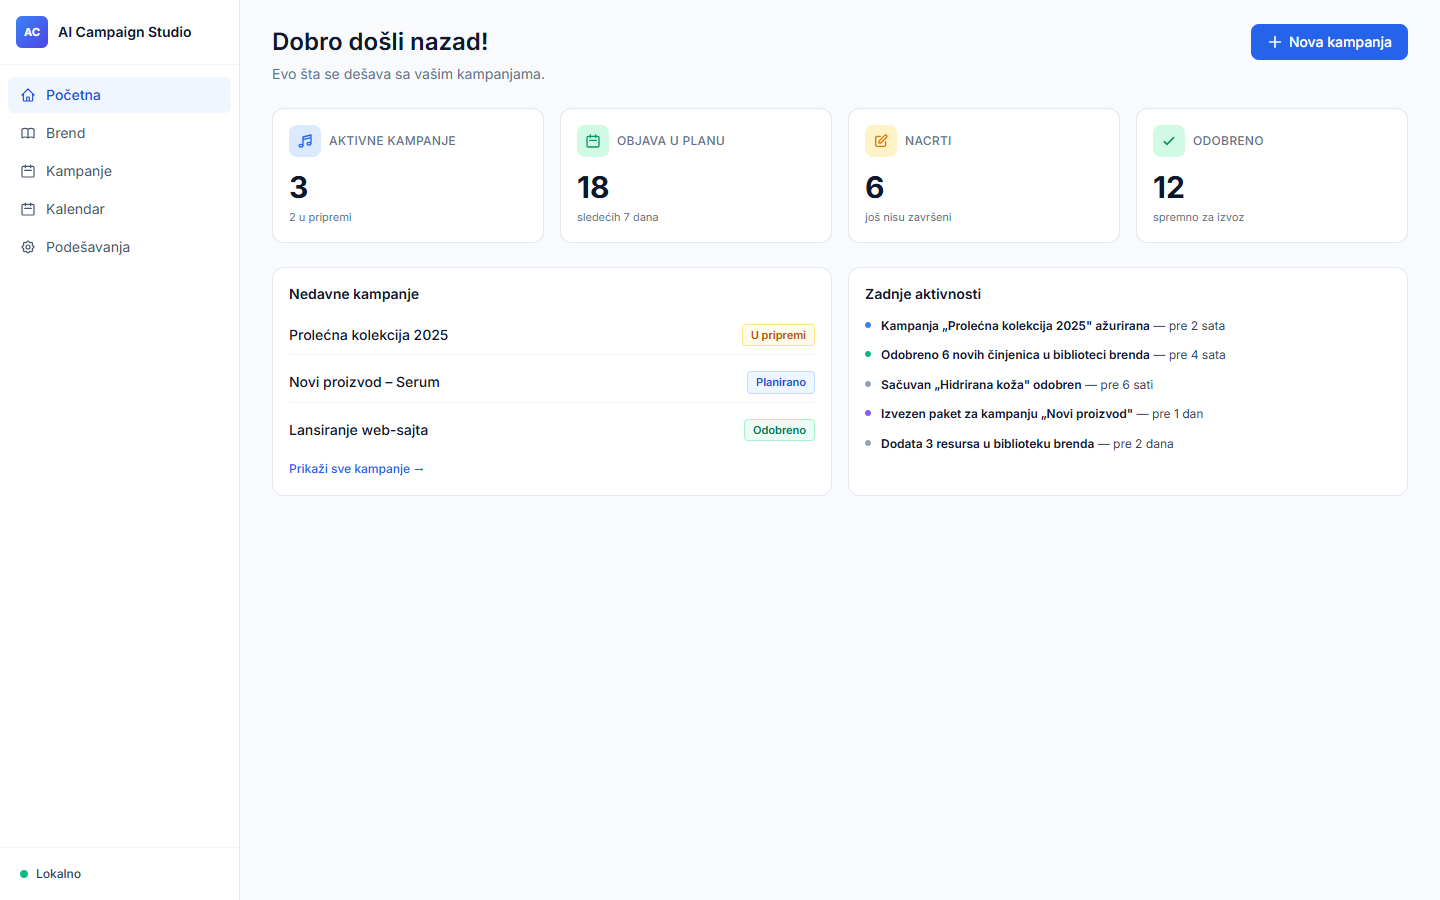
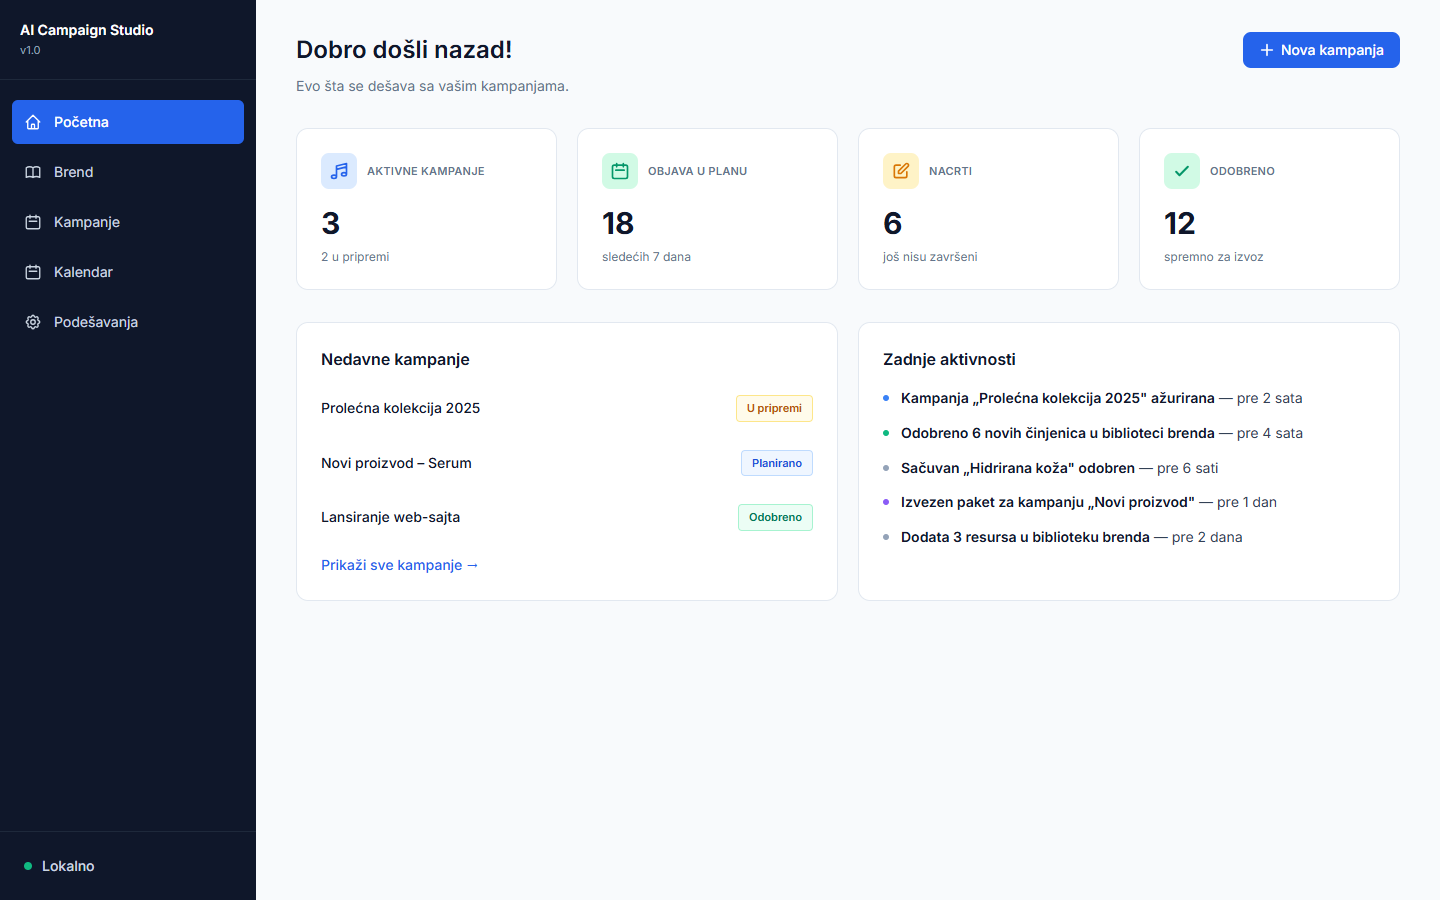
v3 Početna: tamni sidebar + veći razmaci + bolje raspoređen sadržaj
Per Human Owner feedback:
  - 'sidebar je u mockupu TAMNA pozadina i veći razmak između
    naziva panela'
  - 'sadržaj zbijen prema gornjem djelu prozora, treba mnogo
    čitkije'

Changes:
  - Sidebar background: white (slate-50) -> dark (slate-900)
  - Sidebar text: dark -> white/slate-300
  - Nav item spacing: py-2 -> py-3 (larger gap between items)
  - Active state: blue-50 bg + blue-700 text -> blue-600 bg + white
    (more contrast, easier to read)
  - Main padding: px-8 py-6 -> px-10 py-8
  - KPI cards: p-4 -> p-6
  - Section gaps: mb-6 -> mb-8
  - Nedavne/Zadnje aktivnosti: space-y-2.5 -> space-y-3
  - Icon size: 16x16 -> 18x18 (slightly larger for readability)
  - Bottom 'Lokalno' badge: py-1.5 -> py-2 (not cramped)

Result: dashboard is now visually balanced and matches the mockup's
dark sidebar + airy content layout.

diff --git a/mockup_proposal_v3/pocetna/index.html b/mockup_proposal_v3/pocetna/index.html
@@ -13,56 +13,52 @@
   </head>
   <body class="bg-slate-50 text-slate-900 min-h-screen flex flex-col">
     <div class="flex flex-1 min-h-0">
-      <!-- ===== SIDEBAR ===== -->
-      <aside class="w-60 bg-white border-r border-slate-200 flex flex-col flex-shrink-0">
+      <!-- ===== SIDEBAR (tamna, veći razmaci) ===== -->
+      <aside class="w-64 bg-slate-900 flex flex-col flex-shrink-0">
         <!-- Brand card -->
-        <div class="px-4 py-4 border-b border-slate-100">
-          <div class="flex items-center gap-2.5">
-            <div class="w-8 h-8 rounded-md bg-gradient-to-br from-blue-500 to-indigo-600 flex items-center justify-center text-white text-[11px] font-bold">AC</div>
-            <div class="min-w-0">
-              <div class="text-sm font-semibold text-slate-900 truncate">AI Campaign Studio</div>
-            </div>
-          </div>
+        <div class="px-5 py-5 border-b border-slate-800">
+          <div class="text-sm font-semibold text-white">AI Campaign Studio</div>
+          <div class="text-[11px] text-slate-400 mt-0.5">v1.0</div>
         </div>
 
-        <!-- Navigation -->
-        <nav class="px-2 py-3 space-y-0.5 flex-1">
-          <a class="flex items-center gap-2.5 px-3 py-2 text-sm font-medium text-blue-700 bg-blue-50 rounded-md">
-            <svg class="w-4 h-4" fill="none" viewBox="0 0 24 24" stroke="currentColor" stroke-width="1.8"><path stroke-linecap="round" stroke-linejoin="round" d="M3 12l2-2m0 0l7-7 7 7M5 10v10a1 1 0 001 1h3m10-11l2 2m-2-2v10a1 1 0 01-1 1h-3m-6 0a1 1 0 001-1v-4a1 1 0 011-1h2a1 1 0 011 1v4a1 1 0 001 1m-6 0h6"/></svg>
+        <!-- Navigation: space-y-1.5, py-3, larger spacing between items -->
+        <nav class="px-3 py-5 space-y-1.5 flex-1">
+          <a class="flex items-center gap-3 px-3 py-3 text-sm font-medium text-white bg-blue-600 rounded-md">
+            <svg class="w-[18px] h-[18px]" fill="none" viewBox="0 0 24 24" stroke="currentColor" stroke-width="1.8"><path stroke-linecap="round" stroke-linejoin="round" d="M3 12l2-2m0 0l7-7 7 7M5 10v10a1 1 0 001 1h3m10-11l2 2m-2-2v10a1 1 0 01-1 1h-3m-6 0a1 1 0 001-1v-4a1 1 0 011-1h2a1 1 0 011 1v4a1 1 0 001 1m-6 0h6"/></svg>
             <span>Početna</span>
           </a>
-          <a class="flex items-center gap-2.5 px-3 py-2 text-sm text-slate-600 hover:bg-slate-50 rounded-md">
-            <svg class="w-4 h-4" fill="none" viewBox="0 0 24 24" stroke="currentColor" stroke-width="1.8"><path stroke-linecap="round" stroke-linejoin="round" d="M12 6.253v13m0-13C10.832 5.477 9.246 5 7.5 5S4.168 5.477 3 6.253v13C4.168 18.477 5.754 18 7.5 18s3.332.477 4.5 1.253m0-13C13.168 5.477 14.754 5 16.5 5c1.747 0 3.332.477 4.5 1.253v13C19.832 18.477 18.247 18 16.5 18c-1.746 0-3.332.477-4.5 1.253"/></svg>
+          <a class="flex items-center gap-3 px-3 py-3 text-sm text-slate-300 hover:bg-slate-800 hover:text-white rounded-md">
+            <svg class="w-[18px] h-[18px]" fill="none" viewBox="0 0 24 24" stroke="currentColor" stroke-width="1.8"><path stroke-linecap="round" stroke-linejoin="round" d="M12 6.253v13m0-13C10.832 5.477 9.246 5 7.5 5S4.168 5.477 3 6.253v13C4.168 18.477 5.754 18 7.5 18s3.332.477 4.5 1.253m0-13C13.168 5.477 14.754 5 16.5 5c1.747 0 3.332.477 4.5 1.253v13C19.832 18.477 18.247 18 16.5 18c-1.746 0-3.332.477-4.5 1.253"/></svg>
             <span>Brend</span>
           </a>
-          <a class="flex items-center gap-2.5 px-3 py-2 text-sm text-slate-600 hover:bg-slate-50 rounded-md">
-            <svg class="w-4 h-4" fill="none" viewBox="0 0 24 24" stroke="currentColor" stroke-width="1.8"><path stroke-linecap="round" stroke-linejoin="round" d="M8 7V3m8 4V3m-9 8h10M5 21h14a2 2 0 002-2V7a2 2 0 00-2-2H5a2 2 0 00-2 2v12a2 2 0 002 2z"/></svg>
+          <a class="flex items-center gap-3 px-3 py-3 text-sm text-slate-300 hover:bg-slate-800 hover:text-white rounded-md">
+            <svg class="w-[18px] h-[18px]" fill="none" viewBox="0 0 24 24" stroke="currentColor" stroke-width="1.8"><path stroke-linecap="round" stroke-linejoin="round" d="M8 7V3m8 4V3m-9 8h10M5 21h14a2 2 0 002-2V7a2 2 0 00-2-2H5a2 2 0 00-2 2v12a2 2 0 002 2z"/></svg>
             <span>Kampanje</span>
           </a>
-          <a class="flex items-center gap-2.5 px-3 py-2 text-sm text-slate-600 hover:bg-slate-50 rounded-md">
-            <svg class="w-4 h-4" fill="none" viewBox="0 0 24 24" stroke="currentColor" stroke-width="1.8"><path stroke-linecap="round" stroke-linejoin="round" d="M8 7V3m8 4V3m-9 8h10M5 21h14a2 2 0 002-2V7a2 2 0 00-2-2H5a2 2 0 00-2 2v12a2 2 0 002 2z"/></svg>
+          <a class="flex items-center gap-3 px-3 py-3 text-sm text-slate-300 hover:bg-slate-800 hover:text-white rounded-md">
+            <svg class="w-[18px] h-[18px]" fill="none" viewBox="0 0 24 24" stroke="currentColor" stroke-width="1.8"><path stroke-linecap="round" stroke-linejoin="round" d="M8 7V3m8 4V3m-9 8h10M5 21h14a2 2 0 002-2V7a2 2 0 00-2-2H5a2 2 0 00-2 2v12a2 2 0 002 2z"/></svg>
             <span>Kalendar</span>
           </a>
-          <a class="flex items-center gap-2.5 px-3 py-2 text-sm text-slate-600 hover:bg-slate-50 rounded-md">
-            <svg class="w-4 h-4" fill="none" viewBox="0 0 24 24" stroke="currentColor" stroke-width="1.8"><path stroke-linecap="round" stroke-linejoin="round" d="M10.325 4.317c.426-1.756 2.924-1.756 3.35 0a1.724 1.724 0 002.573 1.066c1.543-.94 3.31.826 2.37 2.37a1.724 1.724 0 001.065 2.572c1.756.426 1.756 2.924 0 3.35a1.724 1.724 0 00-1.066 2.573c.94 1.543-.826 3.31-2.37 2.37a1.724 1.724 0 00-2.572 1.065c-.426 1.756-2.924 1.756-3.35 0a1.724 1.724 0 00-2.573-1.066c-1.543.94-3.31-.826-2.37-2.37a1.724 1.724 0 00-1.065-2.572c-1.756-.426-1.756-2.924 0-3.35a1.724 1.724 0 001.066-2.573c-.94-1.543.826-3.31 2.37-2.37.996.608 2.296.07 2.572-1.065z"/><path stroke-linecap="round" stroke-linejoin="round" d="M15 12a3 3 0 11-6 0 3 3 0 016 0z"/></svg>
+          <a class="flex items-center gap-3 px-3 py-3 text-sm text-slate-300 hover:bg-slate-800 hover:text-white rounded-md">
+            <svg class="w-[18px] h-[18px]" fill="none" viewBox="0 0 24 24" stroke="currentColor" stroke-width="1.8"><path stroke-linecap="round" stroke-linejoin="round" d="M10.325 4.317c.426-1.756 2.924-1.756 3.35 0a1.724 1.724 0 002.573 1.066c1.543-.94 3.31.826 2.37 2.37a1.724 1.724 0 001.065 2.572c1.756.426 1.756 2.924 0 3.35a1.724 1.724 0 00-1.066 2.573c.94 1.543-.826 3.31-2.37 2.37a1.724 1.724 0 00-2.572 1.065c-.426 1.756-2.924 1.756-3.35 0a1.724 1.724 0 00-2.573-1.066c-1.543.94-3.31-.826-2.37-2.37a1.724 1.724 0 00-1.065-2.572c-1.756-.426-1.756-2.924 0-3.35a1.724 1.724 0 001.066-2.573c-.94-1.543.826-3.31 2.37-2.37.996.608 2.296.07 2.572-1.065z"/><path stroke-linecap="round" stroke-linejoin="round" d="M15 12a3 3 0 11-6 0 3 3 0 016 0z"/></svg>
             <span>Podešavanja</span>
           </a>
         </nav>
 
-        <!-- Bottom: Lokalno status (bez avatara) -->
-        <div class="p-3 border-t border-slate-100">
-          <div class="flex items-center gap-2 px-2 py-1.5 rounded-md">
+        <!-- Bottom: Lokalno status (BEZ avatara) -->
+        <div class="p-4 border-t border-slate-800">
+          <div class="flex items-center gap-2.5 px-2 py-2 rounded-md">
             <span class="w-2 h-2 rounded-full bg-emerald-500 flex-shrink-0"></span>
-            <span class="text-xs font-medium text-slate-700">Lokalno</span>
+            <span class="text-sm font-medium text-slate-300">Lokalno</span>
           </div>
         </div>
       </aside>
 
-      <!-- ===== MAIN ===== -->
+      <!-- ===== MAIN — veći padding, više zraka ===== -->
       <main class="flex-1 overflow-y-auto">
-        <div class="px-8 py-6 max-w-[1200px]">
+        <div class="px-10 py-8 max-w-[1200px]">
           <!-- Header -->
-          <div class="flex items-center gap-3 mb-1">
+          <div class="flex items-center gap-3 mb-2">
             <h1 class="text-2xl font-semibold text-slate-900">Dobro došli nazad!</h1>
             <div class="flex-1"></div>
             <button class="px-4 py-2 text-sm font-medium text-white bg-blue-600 hover:bg-blue-700 rounded-lg flex items-center gap-1.5">
@@ -70,108 +66,108 @@
               <span>Nova kampanja</span>
             </button>
           </div>
-          <p class="text-sm text-slate-500 mb-6">Evo šta se dešava sa vašim kampanjama.</p>
+          <p class="text-sm text-slate-500 mb-8">Evo šta se dešava sa vašim kampanjama.</p>
 
-          <!-- 4 KPI cards -->
-          <div class="grid grid-cols-4 gap-4 mb-6">
-            <div class="bg-white rounded-xl border border-slate-200 p-4">
-              <div class="flex items-center gap-2 mb-3">
-                <div class="w-8 h-8 rounded-lg bg-blue-100 flex items-center justify-center">
-                  <svg class="w-4 h-4 text-blue-600" fill="none" viewBox="0 0 24 24" stroke="currentColor" stroke-width="2"><path stroke-linecap="round" stroke-linejoin="round" d="M9 19V6l12-3v13M9 19c0 1.105-1.343 2-3 2s-3-.895-3-2 1.343-2 3-2 3 .895 3 2zm12-3c0 1.105-1.343 2-3 2s-3-.895-3-2 1.343-2 3-2 3 .895 3 2zM9 10l12-3"/></svg>
+          <!-- 4 KPI cards: više paddinga, veće p-6 -->
+          <div class="grid grid-cols-4 gap-5 mb-8">
+            <div class="bg-white rounded-xl border border-slate-200 p-6">
+              <div class="flex items-center gap-2.5 mb-4">
+                <div class="w-9 h-9 rounded-lg bg-blue-100 flex items-center justify-center">
+                  <svg class="w-5 h-5 text-blue-600" fill="none" viewBox="0 0 24 24" stroke="currentColor" stroke-width="2"><path stroke-linecap="round" stroke-linejoin="round" d="M9 19V6l12-3v13M9 19c0 1.105-1.343 2-3 2s-3-.895-3-2 1.343-2 3-2 3 .895 3 2zm12-3c0 1.105-1.343 2-3 2s-3-.895-3-2 1.343-2 3-2 3 .895 3 2zM9 10l12-3"/></svg>
                 </div>
-                <div class="text-xs font-medium text-slate-500 uppercase tracking-wide">Aktivne kampanje</div>
+                <div class="text-[11px] font-semibold text-slate-500 uppercase tracking-wide">Aktivne kampanje</div>
               </div>
               <div class="text-3xl font-bold text-slate-900">3</div>
-              <div class="text-[11px] text-slate-500 mt-1">2 u pripremi</div>
+              <div class="text-xs text-slate-500 mt-2">2 u pripremi</div>
             </div>
 
-            <div class="bg-white rounded-xl border border-slate-200 p-4">
-              <div class="flex items-center gap-2 mb-3">
-                <div class="w-8 h-8 rounded-lg bg-emerald-100 flex items-center justify-center">
-                  <svg class="w-4 h-4 text-emerald-600" fill="none" viewBox="0 0 24 24" stroke="currentColor" stroke-width="2"><path stroke-linecap="round" stroke-linejoin="round" d="M8 7V3m8 4V3m-9 8h10M5 21h14a2 2 0 002-2V7a2 2 0 00-2-2H5a2 2 0 00-2 2v12a2 2 0 002 2z"/></svg>
+            <div class="bg-white rounded-xl border border-slate-200 p-6">
+              <div class="flex items-center gap-2.5 mb-4">
+                <div class="w-9 h-9 rounded-lg bg-emerald-100 flex items-center justify-center">
+                  <svg class="w-5 h-5 text-emerald-600" fill="none" viewBox="0 0 24 24" stroke="currentColor" stroke-width="2"><path stroke-linecap="round" stroke-linejoin="round" d="M8 7V3m8 4V3m-9 8h10M5 21h14a2 2 0 002-2V7a2 2 0 00-2-2H5a2 2 0 00-2 2v12a2 2 0 002 2z"/></svg>
                 </div>
-                <div class="text-xs font-medium text-slate-500 uppercase tracking-wide">Objava u planu</div>
+                <div class="text-[11px] font-semibold text-slate-500 uppercase tracking-wide">Objava u planu</div>
               </div>
               <div class="text-3xl font-bold text-slate-900">18</div>
-              <div class="text-[11px] text-slate-500 mt-1">sledećih 7 dana</div>
+              <div class="text-xs text-slate-500 mt-2">sledećih 7 dana</div>
             </div>
 
-            <div class="bg-white rounded-xl border border-slate-200 p-4">
-              <div class="flex items-center gap-2 mb-3">
-                <div class="w-8 h-8 rounded-lg bg-amber-100 flex items-center justify-center">
-                  <svg class="w-4 h-4 text-amber-600" fill="none" viewBox="0 0 24 24" stroke="currentColor" stroke-width="2"><path stroke-linecap="round" stroke-linejoin="round" d="M11 5H6a2 2 0 00-2 2v11a2 2 0 002 2h11a2 2 0 002-2v-5m-1.414-9.414a2 2 0 112.828 2.828L11.828 15H9v-2.828l8.586-8.586z"/></svg>
+            <div class="bg-white rounded-xl border border-slate-200 p-6">
+              <div class="flex items-center gap-2.5 mb-4">
+                <div class="w-9 h-9 rounded-lg bg-amber-100 flex items-center justify-center">
+                  <svg class="w-5 h-5 text-amber-600" fill="none" viewBox="0 0 24 24" stroke="currentColor" stroke-width="2"><path stroke-linecap="round" stroke-linejoin="round" d="M11 5H6a2 2 0 00-2 2v11a2 2 0 002 2h11a2 2 0 002-2v-5m-1.414-9.414a2 2 0 112.828 2.828L11.828 15H9v-2.828l8.586-8.586z"/></svg>
                 </div>
-                <div class="text-xs font-medium text-slate-500 uppercase tracking-wide">Nacrti</div>
+                <div class="text-[11px] font-semibold text-slate-500 uppercase tracking-wide">Nacrti</div>
               </div>
               <div class="text-3xl font-bold text-slate-900">6</div>
-              <div class="text-[11px] text-slate-500 mt-1">još nisu završeni</div>
+              <div class="text-xs text-slate-500 mt-2">još nisu završeni</div>
             </div>
 
-            <div class="bg-white rounded-xl border border-slate-200 p-4">
-              <div class="flex items-center gap-2 mb-3">
-                <div class="w-8 h-8 rounded-lg bg-emerald-100 flex items-center justify-center">
-                  <svg class="w-4 h-4 text-emerald-600" fill="none" viewBox="0 0 24 24" stroke="currentColor" stroke-width="2.5"><path stroke-linecap="round" stroke-linejoin="round" d="M5 13l4 4L19 7"/></svg>
+            <div class="bg-white rounded-xl border border-slate-200 p-6">
+              <div class="flex items-center gap-2.5 mb-4">
+                <div class="w-9 h-9 rounded-lg bg-emerald-100 flex items-center justify-center">
+                  <svg class="w-5 h-5 text-emerald-600" fill="none" viewBox="0 0 24 24" stroke="currentColor" stroke-width="2.5"><path stroke-linecap="round" stroke-linejoin="round" d="M5 13l4 4L19 7"/></svg>
                 </div>
-                <div class="text-xs font-medium text-slate-500 uppercase tracking-wide">Odobreno</div>
+                <div class="text-[11px] font-semibold text-slate-500 uppercase tracking-wide">Odobreno</div>
               </div>
               <div class="text-3xl font-bold text-slate-900">12</div>
-              <div class="text-[11px] text-slate-500 mt-1">spremno za izvoz</div>
+              <div class="text-xs text-slate-500 mt-2">spremno za izvoz</div>
             </div>
           </div>
 
-          <!-- 2 columns: Nedavne kampanje + Zadnje aktivnosti -->
-          <div class="grid grid-cols-2 gap-4">
+          <!-- 2 columns: Nedavne kampanje + Zadnje aktivnosti, više razmaka -->
+          <div class="grid grid-cols-2 gap-5">
             <!-- Nedavne kampanje -->
-            <div class="bg-white rounded-xl border border-slate-200 p-4">
-              <h2 class="text-sm font-semibold text-slate-900 mb-3">Nedavne kampanje</h2>
-              <div class="space-y-2">
-                <div class="flex items-center justify-between py-2 border-b border-slate-100 last:border-0">
+            <div class="bg-white rounded-xl border border-slate-200 p-6">
+              <h2 class="text-base font-semibold text-slate-900 mb-4">Nedavne kampanje</h2>
+              <div class="space-y-3">
+                <div class="flex items-center justify-between py-2">
                   <div class="text-sm font-medium text-slate-900">Prolećna kolekcija 2025</div>
-                  <span class="px-2 py-0.5 text-[11px] font-semibold text-amber-700 bg-amber-50 border border-amber-200 rounded">U pripremi</span>
+                  <span class="px-2.5 py-1 text-[11px] font-semibold text-amber-700 bg-amber-50 border border-amber-200 rounded">U pripremi</span>
                 </div>
-                <div class="flex items-center justify-between py-2 border-b border-slate-100 last:border-0">
+                <div class="flex items-center justify-between py-2">
                   <div class="text-sm font-medium text-slate-900">Novi proizvod – Serum</div>
-                  <span class="px-2 py-0.5 text-[11px] font-semibold text-blue-700 bg-blue-50 border border-blue-200 rounded">Planirano</span>
+                  <span class="px-2.5 py-1 text-[11px] font-semibold text-blue-700 bg-blue-50 border border-blue-200 rounded">Planirano</span>
                 </div>
                 <div class="flex items-center justify-between py-2">
                   <div class="text-sm font-medium text-slate-900">Lansiranje web-sajta</div>
-                  <span class="px-2 py-0.5 text-[11px] font-semibold text-emerald-700 bg-emerald-50 border border-emerald-200 rounded">Odobreno</span>
+                  <span class="px-2.5 py-1 text-[11px] font-semibold text-emerald-700 bg-emerald-50 border border-emerald-200 rounded">Odobreno</span>
                 </div>
               </div>
-              <button class="mt-3 text-xs font-medium text-blue-600 hover:underline">Prikaži sve kampanje →</button>
+              <button class="mt-4 text-sm font-medium text-blue-600 hover:underline">Prikaži sve kampanje →</button>
             </div>
 
             <!-- Zadnje aktivnosti -->
-            <div class="bg-white rounded-xl border border-slate-200 p-4">
-              <h2 class="text-sm font-semibold text-slate-900 mb-3">Zadnje aktivnosti</h2>
-              <ol class="space-y-2.5">
-                <li class="flex gap-2.5">
-                  <span class="w-1.5 h-1.5 rounded-full bg-blue-500 flex-shrink-0 mt-1.5"></span>
-                  <div class="text-xs text-slate-700 leading-relaxed">
+            <div class="bg-white rounded-xl border border-slate-200 p-6">
+              <h2 class="text-base font-semibold text-slate-900 mb-4">Zadnje aktivnosti</h2>
+              <ol class="space-y-3">
+                <li class="flex gap-3">
+                  <span class="w-1.5 h-1.5 rounded-full bg-blue-500 flex-shrink-0 mt-2"></span>
+                  <div class="text-sm text-slate-700 leading-relaxed">
                     <span class="font-semibold text-slate-900">Kampanja „Prolećna kolekcija 2025" ažurirana</span> — pre 2 sata
                   </div>
                 </li>
-                <li class="flex gap-2.5">
-                  <span class="w-1.5 h-1.5 rounded-full bg-emerald-500 flex-shrink-0 mt-1.5"></span>
-                  <div class="text-xs text-slate-700 leading-relaxed">
+                <li class="flex gap-3">
+                  <span class="w-1.5 h-1.5 rounded-full bg-emerald-500 flex-shrink-0 mt-2"></span>
+                  <div class="text-sm text-slate-700 leading-relaxed">
                     <span class="font-semibold text-slate-900">Odobreno 6 novih činjenica u biblioteci brenda</span> — pre 4 sata
                   </div>
                 </li>
-                <li class="flex gap-2.5">
-                  <span class="w-1.5 h-1.5 rounded-full bg-slate-400 flex-shrink-0 mt-1.5"></span>
-                  <div class="text-xs text-slate-700 leading-relaxed">
+                <li class="flex gap-3">
+                  <span class="w-1.5 h-1.5 rounded-full bg-slate-400 flex-shrink-0 mt-2"></span>
+                  <div class="text-sm text-slate-700 leading-relaxed">
                     <span class="font-semibold text-slate-900">Sačuvan „Hidrirana koža" odobren</span> — pre 6 sati
                   </div>
                 </li>
-                <li class="flex gap-2.5">
-                  <span class="w-1.5 h-1.5 rounded-full bg-violet-500 flex-shrink-0 mt-1.5"></span>
-                  <div class="text-xs text-slate-700 leading-relaxed">
+                <li class="flex gap-3">
+                  <span class="w-1.5 h-1.5 rounded-full bg-violet-500 flex-shrink-0 mt-2"></span>
+                  <div class="text-sm text-slate-700 leading-relaxed">
                     <span class="font-semibold text-slate-900">Izvezen paket za kampanju „Novi proizvod"</span> — pre 1 dan
                   </div>
                 </li>
-                <li class="flex gap-2.5">
-                  <span class="w-1.5 h-1.5 rounded-full bg-slate-400 flex-shrink-0 mt-1.5"></span>
-                  <div class="text-xs text-slate-700 leading-relaxed">
+                <li class="flex gap-3">
+                  <span class="w-1.5 h-1.5 rounded-full bg-slate-400 flex-shrink-0 mt-2"></span>
+                  <div class="text-sm text-slate-700 leading-relaxed">
                     <span class="font-semibold text-slate-900">Dodata 3 resursa u biblioteku brenda</span> — pre 2 dana
                   </div>
                 </li>
